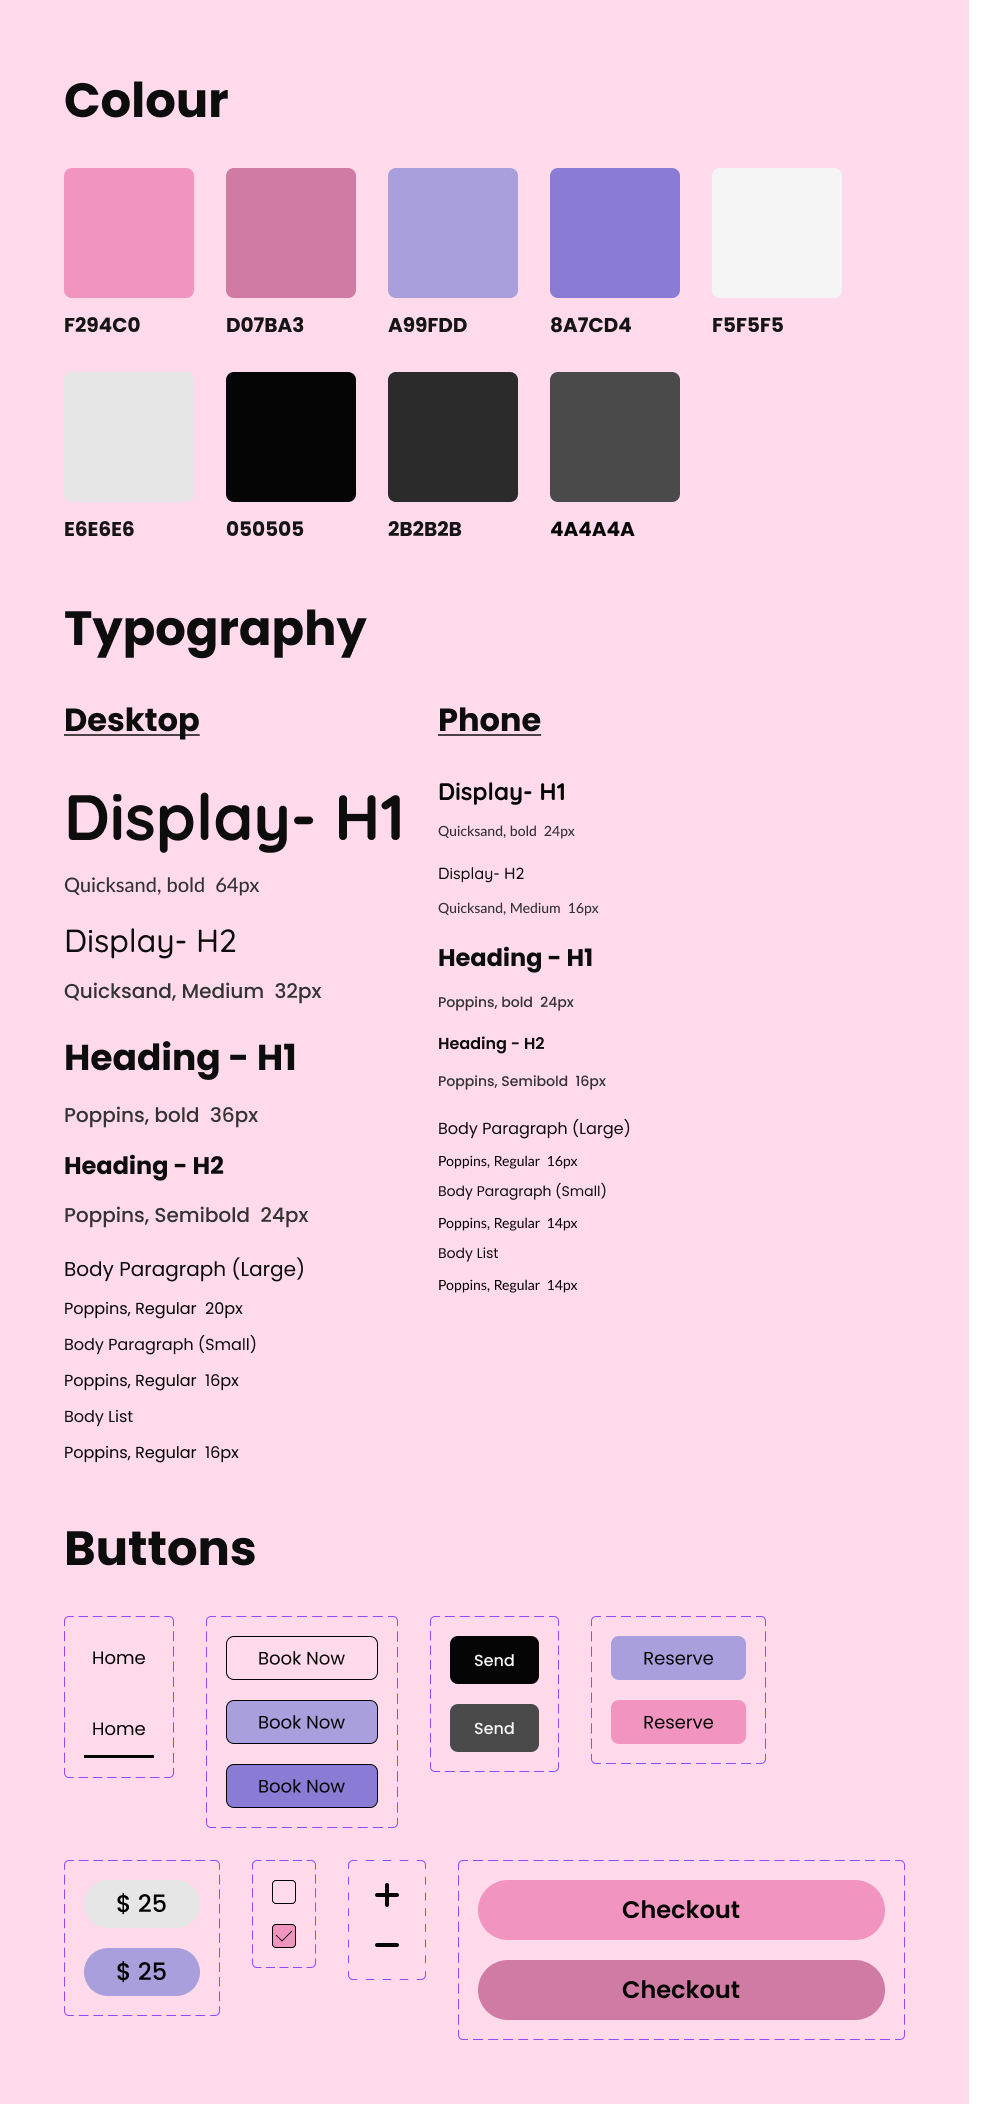
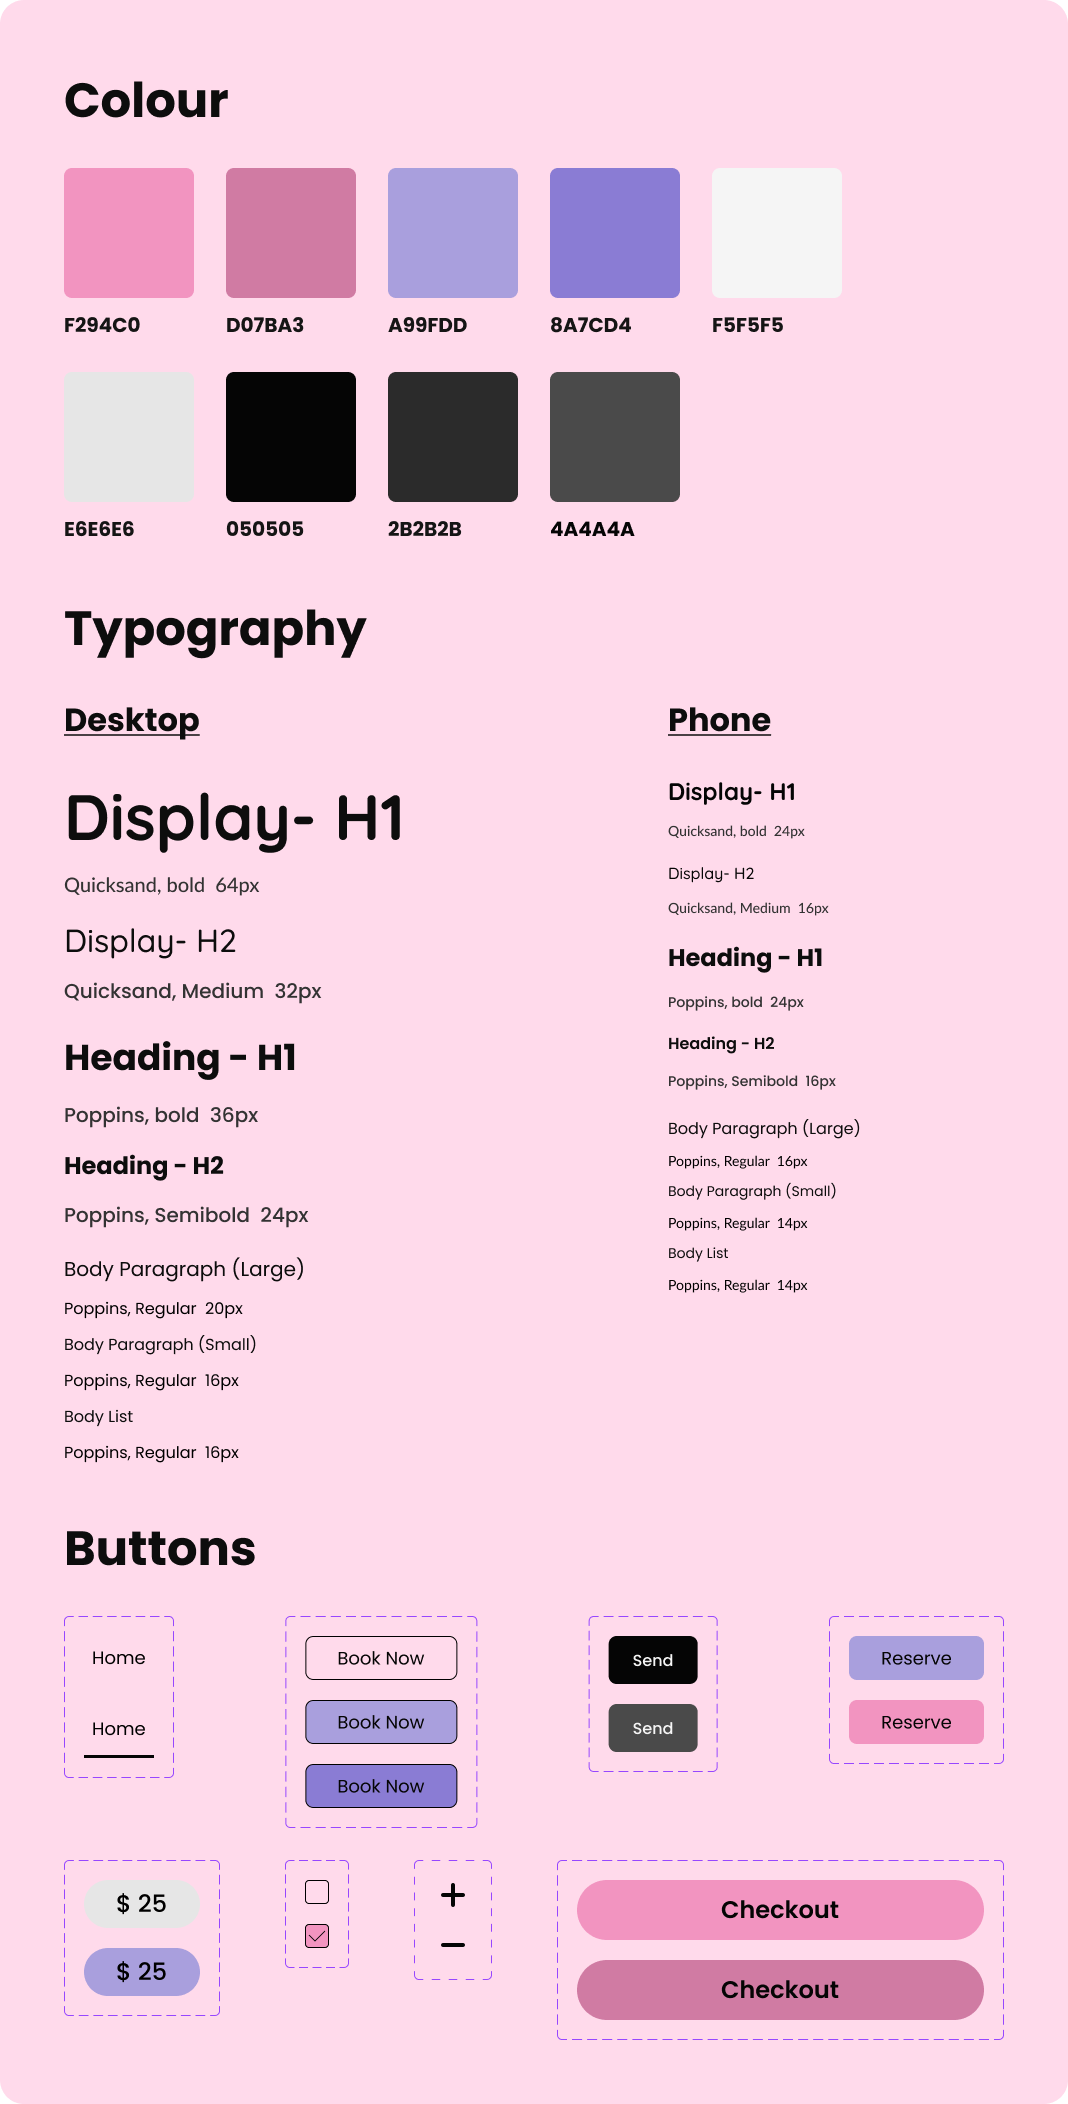
Change images sizes

diff --git a/tututuspace.html b/tututuspace.html
@@ -180,9 +180,9 @@
                             </picture>
                            
                         </div>
-                        <div class="col-12 mx-auto mt-4">
+                        <div class="col-12 mx-auto mt-5">
                             <picture>
-                                <source srcset="images/tututu-lo-phone-1000_x_884.png" media="(min-width: 750px)" />
+                                <source srcset="images/tututu-lo-phone-1200_x_1061.png" media="(min-width: 750px)" />
         
                                 <source srcset="images/tututu-lo-phone-800_x_707.png" media="(min-width: 450px)" />
         
@@ -198,9 +198,9 @@
                         <picture>
                             <source srcset="images/tututu-style.png" media="(min-width: 750px)" />
     
-                            <source srcset="images/tututu-style-sm-800_x_1676.png" media="(min-width: 450px)" />
+                            <source srcset="images/tututu-style-sm.png" media="(min-width: 450px)" />
     
-                            <img class="img-fluid rounded-3" src="images/tututu-style-sm-800_x_1676.png" alt="tututu space style guide">
+                            <img class="img-fluid rounded-3" src="images/tututu-style-sm.png" alt="tututu space style guide">
                         </picture>
                     </div>
                 </div>
@@ -210,13 +210,33 @@
                     <h2 class="fw-bold fs-2 text-start" role="heading">High Fidelity</h2>
                 </div>
                 <div class="col-12 mt-4">
-                    <img class="img-fluid rounded-3" src="images/tututu-hi-des.png" alt="">
+                    <picture>
+                        <source srcset="images/tututu-hi-des.png" media="(min-width: 750px)" />
+
+                        <source srcset="images/tututu-hi-des-sm.png" media="(min-width: 450px)" />
+
+                        <img class="img-fluid rounded-3" src="images/tututu-hi-des-sm.png" alt="tututu space desktop high fidelity wireframe">
+                    </picture>
+                    
                 </div>
-                <div class="col-lg-6">
-                    <img class="img-fluid rounded-3" src="images/tututu-hi-phone-1.png" alt="">
+                <div class="col-sm-6">
+                    <picture>
+                        <source srcset="images/tututu-hi-phone-1-650_x_487.png" media="(min-width: 750px)" />
+
+                        <source srcset="images/tututu-hi-phone-1-525_x_394.png" media="(min-width: 450px)" />
+
+                        <img class="img-fluid rounded-3" src="images/tututu-hi-phone-1-525_x_394.png" alt="tututu space phone high fidelity wireframe">
+                    </picture>
+                   
                 </div>
-                <div class="col-lg-6 ">
-                    <img class="img-fluid rounded-3" src="images/tututu-hi-phone-2.png" alt="">
+                <div class="col-sm-6 ">
+                    <picture>
+                        <source srcset="images/tututu-hi-phone-2-650_x_487.png" media="(min-width: 750px)" />
+
+                        <source srcset="images/tututu-hi-phone-2-525_x_394.png" media="(min-width: 450px)" />
+
+                        <img class="img-fluid rounded-3" src="images/tututu-hi-phone-2-525_x_394.png" alt="tututu space phone high fidelity wireframe">
+                    </picture>
                 </div>
 
                 <!-- Test -->
